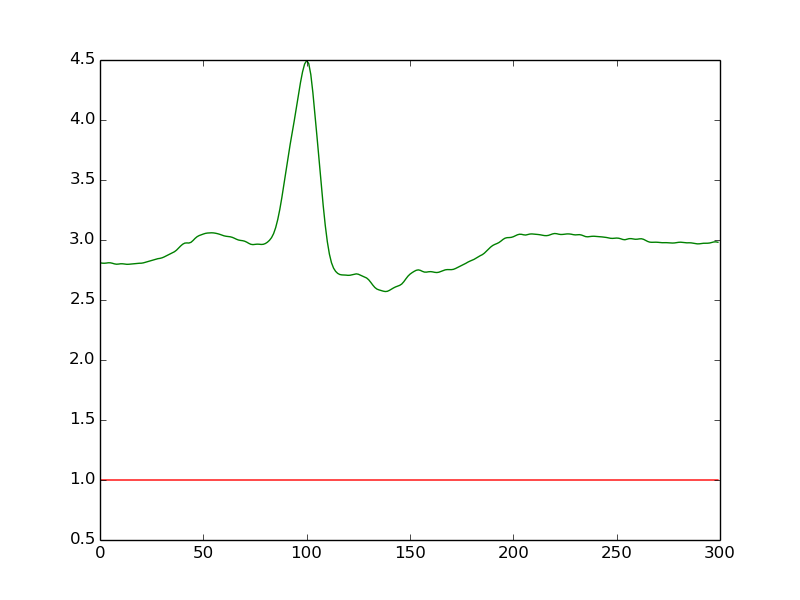
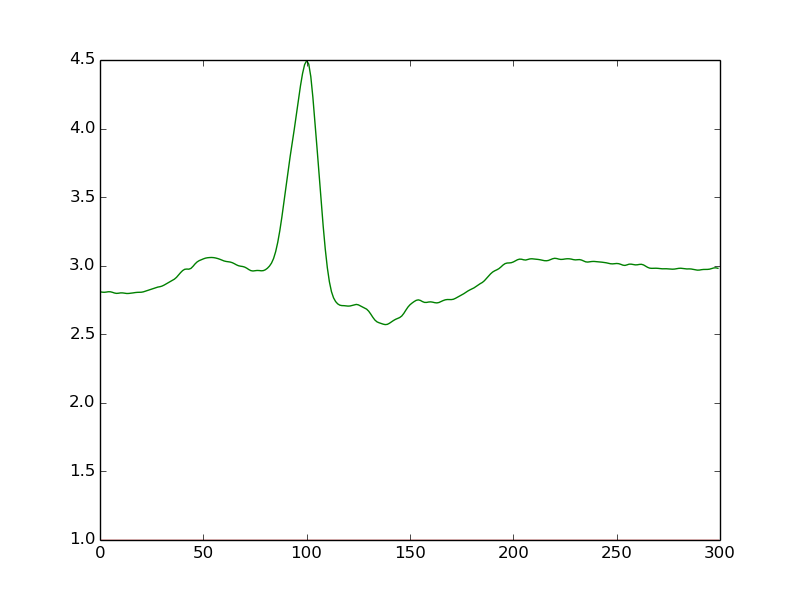
50 hidden 200 epochs cross entropy

diff --git a/dA.py b/dA.py
@@ -241,14 +241,14 @@ class dA(object):
 	    # note : we sum over the size of a datapoint; if we are using
             #        minibatches, L will be a vector, with one entry per
 	    #        example in minibatch
-        L = T.mean(T.sum(T.sqr(self.x-z)))
-        #L = - T.sum(self.x * T.log(z) + (1 - self.x) * T.log(1 - z), axis=1)
+        #L = T.mean(T.sum(T.sqr(self.x-z)))
+        L = - T.sum(self.x * T.log(z) + (1 - self.x) * T.log(1 - z), axis=1)
 
             # note : L is now a vector, where each element is the
             #        cross-entropy cost of the reconstruction of the
             #        corresponding exam
 
-        cost = L
+        cost = T.mean(L)
 	#cost = L
             # compute the gradients of the cost of the `dA` with respect
             # to its parameters
@@ -262,7 +262,7 @@ class dA(object):
         return (cost, updates)
 
 
-def test_dA(learning_rate=0.001, training_epochs=1000,
+def test_dA(learning_rate=0.1, training_epochs=200,
             dataset='mnist.pkl.gz',
             batch_size=1, output_folder='dA_plots'):
 
